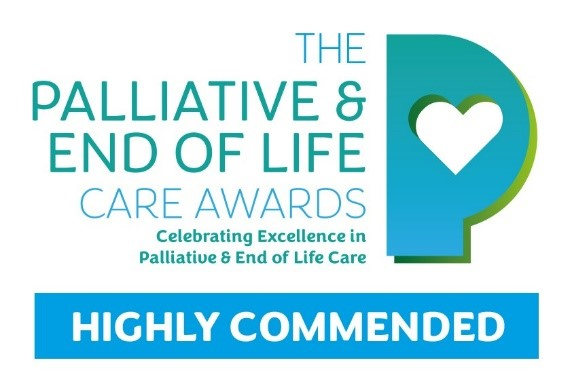
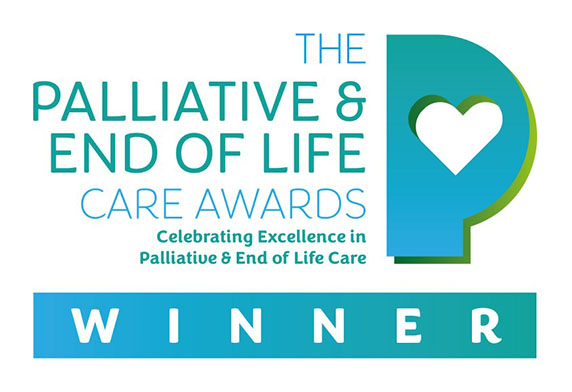
award

diff --git a/index.html b/index.html
@@ -209,11 +209,41 @@
 
           <div class="col-lg-6">
             <h2 style="font-size: 25px;color: #0c2e8a;font-weight: bold;">Awarded High Commendation </h2>
-            <p> We are delighted to announce that we have been <b>Highly Commended At The Inaugural Palliative & End Of Life Care Awards 2024</b>. Presented by the Great British Care Awards. 
-              This accolade recognise our dedication to providing exceptional palliative and end-of-life care.
+            <p> We’re delighted to share that we have been named the Winners of the Palliative & End of Life Care Awards 2025, receiving the Palliative Care at Home Provider Award.
+This meaningful recognition highlights our deep commitment to delivering compassionate, high-quality care to individuals and their loved ones through some of life’s most emotional and intimate journeys. We are truly honored to support those in need and remain dedicated to providing exceptional care, comfort, and dignity within the home environment.
               </p>
-              <img src="img/palliative.jpg" width="70%" height="70%">
             
+               <div id="myCarousel" class="carousel slide" data-ride="carousel">
+              <ol class="carousel-indicators">
+                <li data-target="#myCarousel" data-slide-to="0" class="active"></li>
+                <li data-target="#myCarousel" data-slide-to="1"></li>
+                <li data-target="#myCarousel" data-slide-to="2"></li>
+                <li data-target="#myCarousel" data-slide-to="3"></li>
+              </ol>
+              <div class="carousel-inner">
+                <div class="carousel-item active">
+                  <img src="img/palliative.jpg" alt="Slide 0">
+                </div>
+                <div class="carousel-item">
+                  <img src="img/palliative1.jpg" alt="Slide 1">
+                </div>
+                <div class="carousel-item">
+                  <img src="img/palliative2.jpg" alt="Slide 2">
+                </div>
+                 <div class="carousel-item">
+                  <img src="img/palliative3.jpg" alt="Slide 3">
+                </div>
+
+              </div>
+              <a class="carousel-control-prev" href="#myCarousel" role="button" data-slide="prev">
+                <span class="carousel-control-prev-icon" aria-hidden="true"></span>
+                <span class="sr-only">Previous</span>
+              </a>
+              <a class="carousel-control-next" href="#myCarousel" role="button" data-slide="next">
+                <span class="carousel-control-next-icon" aria-hidden="true"></span>
+                <span class="sr-only">Next</span>
+              </a>
+            </div>
             
 
           </div>
